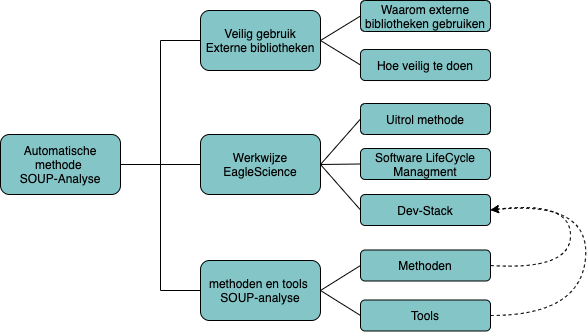
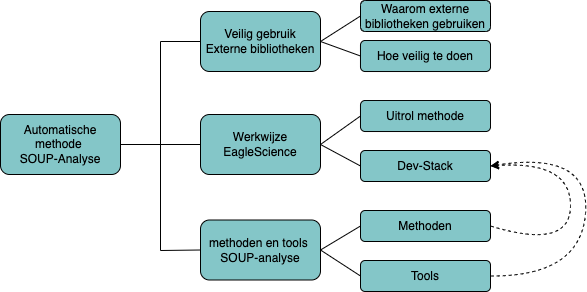
Onderzoeksplan ook spel checked, Conceptueel model figuur aangepast,

diff --git a/Chapters/0201-OnderzoeksPlan.tex b/Chapters/0201-OnderzoeksPlan.tex
@@ -16,29 +16,29 @@ Door de analyses te automatiseren wordt beoogd dat er minder tijd zal hoeven te 
 
 
 \section{Probleem stelling, onderzoeksvraag en doelstellingen}\label{sec:probleem-stelling-onderzoeksvraag-en-doelstellingen}
-Samengevat luidt het probleem: Het handmatig uitvoeren van SOUP-analyses kost manuren die niet declarabel zijn. Om deze reden is de wens dat er een geautomatiseerde oplossing komt die periodiek de projecten, die in ontwikkeling zijn en/of door Eaglescience gehost worden, analyseerd op kwetsbaarheden in gebruikte externe bibliotheken. Door deze automatische oplossing te gebruiken wordt beoogd dat de (niet declarabele) uren die normaal gebruikt worden voor het analyseren van projecten in plaats daarvan gebruikt kunnen worden voor andere wel declarabele uren. Hierdoor zou de efficientie binnen Eaglescience kunnen worden verhoogd.
+Samengevat luidt het probleem: Het handmatig uitvoeren van SOUP-analyses kost manuren die niet declarabel zijn. Om deze reden is de wens dat er een geautomatiseerde oplossing komt die periodiek de projecten, die in ontwikkeling zijn en/of door Eaglescience gehost worden, analyseert op kwetsbaarheden in gebruikte externe bibliotheken. Door deze automatische oplossing te gebruiken wordt beoogd dat de (niet declarabele) uren die normaal gebruikt worden voor het analyseren van projecten in plaats daarvan gebruikt kunnen worden voor andere wel declarabele uren. Hierdoor zou de efficiëntie binnen Eaglescience kunnen worden verhoogd.
 
 Voor het onderzoek naar het hierboven genoemde probleem is de volgende centrale onderzoeksvraag opgesteld: "Hoe kan Eaglescience middels een geautomatiseerde methode inzicht krijgen in potentiële kwetsbaarheden van gebruikte bibliotheken binnen projecten, waarbij rekening gehouden wordt met de huidige manier van werken?"
 
 De opdracht heeft de volgende doelstelling:
-Het doel van dit onderzoek is het ontwikkelen van een methode om SOUP-analyses uit te voeren binnen de dev-stack van Eaglescience. Hierbij moet rekening gehouden worden met de in de opdracht gegeven criteria. Aan het einde van het onderzoek moet een methode worden gepresenteerd die vervolgens bewezen kan worden middels een implementantie van een analyse op de twee meest gebruikte technologiën binnen Eaglescience, Scala en TypeScript.
+Het doel van dit onderzoek is het ontwikkelen van een methode om SOUP-analyses uit te voeren binnen de dev-stack van Eaglescience. Hierbij moet rekening gehouden worden met de in de opdracht gegeven criteria. Aan het einde van het onderzoek moet een methode worden gepresenteerd die vervolgens bewezen kan worden middels een implementatie van een analyse op de twee meest gebruikte technologieën binnen Eaglescience, Scala en TypeScript.
 
 
-\section{Stakeholdersanalyse}\label{sec:stakeholdersanalyse}
+\section{Stakeholderanalyse}\label{sec:stakeholdersanalyse}
 Om inzicht te verkrijgen in het draagvlak voor dit onderzoek dient er een stakeholders analyse gedaan te worden. Op deze manier moet het duidelijk worden wie de stakeholders zijn en welke belangen zij hebben bij het doen van een onderzoek naar een geautomatiseerde SOUP-analyse en de resultaten hiervan.
 
 \subsection{Dagelijks bestuur (intern)}\label{subsec:dagelijks-bestuur-(intern)1}
-Het dagelijks bestuur ziet vooral voordelen in het op een overzichtelijke manier verkrijgen van inzichten in kwetsbaarheden. Zij beogen dat ze hierdoor beter kunnen aansturen in het gebruik van bibliotheken en/of andere technologiëen. Ondanks dat de ontwikkeling van de beoogde nieuwe module vooral geld zal kosten, is de huidige manier van werken ook niet kosten-effectief. Daarnaast voorziet de CTO dat de nieuwe module tijdswinst zal opleveren waardoor de time-to-market voor andere projecten hoger kan komen te liggen en er dus op langere termijn meer omzet gegenereerd kan worden.
+Het dagelijks bestuur ziet vooral voordelen in het op een overzichtelijke manier verkrijgen van inzichten in kwetsbaarheden. Zij beogen dat ze hierdoor beter kunnen aansturen in het gebruik van bibliotheken en/of andere technologieën. Ondanks dat de ontwikkeling van de beoogde nieuwe module vooral geld zal kosten, is de huidige manier van werken ook niet kosten-effectief. Daarnaast voorziet de CTO dat de nieuwe module tijdswinst zal opleveren waardoor de time-to-market voor andere projecten hoger kan komen te liggen en er dus op langere termijn meer omzet gegenereerd kan worden.
 
 \subsection{Projectmanagers (intern)}\label{subsec:projectmanagers-(intern)1}
-Projectmanagers krijgen op dit moment een update over de staat van kwetsbaarheden na afronding van een analyse, welke veelal na een deploy plaatsvindt of op verzoek. De nieuwe module zal echter de mogelijkheid bieden om up-to-date informatie on-demand te verkrijgen.
+Projectmanagers krijgen op dit moment een update over de staat van kwetsbaarheden na afronding van een analyse, welke vaak na een deploy plaatsvindt of op verzoek. De nieuwe module zal echter de mogelijkheid bieden om up-to-date informatie on-demand te verkrijgen.
 De tijdsinvestering die nodig is van ontwikkelaars voor de ontwikkeling van de module weegt volgens hen op tegen de voordelen die de module in de toekomst kan brengen.
 
 \subsection{Ontwikkelteam (intern)}\label{subsec:ontwikkelteam-(intern)1}
-Het handmatig testen van kwetsbaarheden werd tot op heden gedaan door het ontwikkelteam. Dit is een tijdrovende taak, welke ten koste gaat van de ontwikkeling van software voor klanten. Het ontwikkelteam heeft daarom direct baat bij de ontwikkeling van de beoogte module en wil daarom graag hieraan meedenken en meewerken.
+Het handmatig testen van kwetsbaarheden werd tot op vandaag gedaan door het ontwikkelteam. Dit is een tijdrovende taak, welke ten koste gaat van de ontwikkeling van software voor klanten. Het ontwikkelteam heeft daarom direct baat bij de ontwikkeling van de beoogde module en wil daarom graag hieraan meedenken en meewerken.
 
 \subsection{Klant (extern)}\label{subsec:klant-(extern)1}
-De enige externe stakeholder is de klant. Dit is tevens een passieve stakeholder gezien zij niet direct betrokken zijn bij de ontwikkeling van de module, maar wel baat hebben bij de uitkomst hiervan, namelijk in de vorm van veiligere en betrouwbaardere software tegen potentieel lagere kosten.
+De enige externe stakeholder is de klant, welke ook een passieve stakeholder is, gezien zij niet direct betrokken zijn bij de ontwikkeling van de module, maar wel baat hebben bij de uitkomst hiervan, namelijk in de vorm van veiligere en betrouwbaardere software tegen potentieel lagere kosten.
 
 \begin{figure}
     \myfloatalign
@@ -46,21 +46,21 @@ De enige externe stakeholder is de klant. Dit is tevens een passieve stakeholder
     \caption{StakeHolders Analyse}
     \label{fig:StakeholderAnalyse1}
 \end{figure}
-Zoals te zien is in figuur~\ref{fig:StakeholderAnalyse1} is hebben alle stakeholders veel baat bij een nieuwe module voor de analyse van kwetsbaarheden. De invloed hierop is het hoogst bij het ontwikkelteam en de projectmangagers. De lage invloed van de klant zorgt ervoor dat voor het ontwerp alleen de requirements vanuit Eaglescience worden opgenomen.
+Zoals te zien is in figuur~\ref{fig:StakeholderAnalyse1} is hebben alle stakeholders veel baat bij een nieuwe module voor de analyse van kwetsbaarheden. De invloed hierop is het hoogst bij het ontwikkelteam en de projectmanagers. De lage invloed van de klant zorgt ervoor dat voor het ontwerp alleen de requirements vanuit Eaglescience worden opgenomen.
 
 \section{Theoretisch kader}\label{sec:theoretisch-kader}
 Het theoretisch kader waarmee wordt gewerkt bestaat uit twee delen. Het eerste deel omvat theorie over externe bibliotheken. Het richt zich op het gebruik hiervan en de potentiële gevaren en methoden om deze bibliotheken te analyseren. De geselecteerde bronnen zijn:
 \begin{itemize}
     \item \textbf{OWASP top 10}
-    De OWASP Top-10 is als uitgangspunt gekozen omdat de inhoud van dit document binnen Eaglescience geldt als aandachtspunt voor het ontwikkelen van veilige software. De basis voor dit onderzoek wordt beschreven in punt "A06:2021-Vulnerable and Outdated Components". Hier wordt beschreven welke gevaren er potentieel dreigen als op dit punt niets gedaan wordt \citep{OWASP:2021}.
-    \item \textbf{OWASP dependency-check} Pagina over het project binnen de OWASP voor het analyseren van componenten in applicaties \citep{OWASP:2017}.
-    \item \textbf{Justifying the use of software of uncertain pedigree (SOUP) in safety-related applications} Hoewel dit document verouderd lijkt staat er wel degelijk interessante informatie over waarom je SOUP zou gebruiken en hoe je de risico's kan verminderen \citep{Bischop:2001} .
-    \item \textbf{Backstabber’s Knife Collection: A Review of Open Source Software Supply Chain Attacks}Dit artikel bevat informatie over een mogelijke vorm van aanvallen die middels SOUP uitgevoerd zouden kunnen worden. Daarnaast geeft het artikel inzicht in hoe de onderzoekers packages voor NPM, Python, en Ruby hebben onderzocht op kwetsbaarheden \citep{Ohm:2020}.
+    De OWASP Top-10 is als uitgangspunt gekozen omdat de inhoud van dit document binnen Eaglescience geldt als aandachtspunt voor het ontwikkelen van veilige software. De basis voor dit onderzoek wordt beschreven in punt "A06:2021-Vulnerable and Outdated Components". Hier wordt beschreven welke gevaren er potentieel dreigen als op dit punt niets gedaan wordt~\citep{OWASP:2021}.
+    \item \textbf{OWASP dependency-check} Pagina over het project binnen de OWASP voor het analyseren van componenten in applicaties~\citep{OWASP:2017}.
+    \item \textbf{Justifying the use of software of uncertain pedigree (SOUP) in safety-related applications} Hoewel dit document verouderd lijkt staat er wel degelijk interessante informatie over waarom je SOUP zou gebruiken en hoe je de risico's kan verminderen~\citep{Bischop:2001} .
+    \item \textbf{Backstabber’s Knife Collection: A Review of Open Source Software Supply Chain Attacks}Dit artikel bevat informatie over een mogelijke vorm van aanvallen die middels SOUP uitgevoerd zouden kunnen worden. Daarnaast geeft het artikel inzicht in hoe de onderzoekers packages voor NPM, Python, en Ruby hebben onderzocht op kwetsbaarheden~\citep{Ohm:2020}.
 \end{itemize}
-Het tweede deel omvat de werkwijze van Eaglescience en de door hun gebruikte technologiëen. De geselecteerde documenten vormen de basis informatie over de werkwijze van Eaglescience en zal als input worden gebruikt bij het ontwerp van de analyse welke aansluitend aan het onderzoek zal plaatsvinden. De volgende bronnen zullen bij het onderzoek worden gebruikt:
+Het tweede deel omvat de werkwijze van Eaglescience en de door hun gebruikte technologieën. De geselecteerde documenten vormen de basis informatie over de werkwijze van Eaglescience en zal als input worden gebruikt bij het ontwerp van de analyse die aansluitend aan het onderzoek zal plaatsvinden. De volgende bronnen zullen bij het onderzoek worden gebruikt:
 \begin{itemize}
-    \item \textbf{151030 F04B Proces Flow Chart ES\_V1.0\_TN.pdf} Een document dat de workflow beschrijft die binnen Eaglescience gehanteerd wordt \citep{Eaglescience:2015}.
-    \item \textbf{200121\_Policy Manual\_ES\_V6 signed.pdf} ISO handboek waarin de bedrijfsvoering binnen Eaglescience wordt beschreven \citep{Eaglescience:2020}.
+    \item \textbf{151030 F04B Proces Flow Chart ES\_V1.0\_TN.pdf} Een document dat de workflow beschrijft die binnen Eaglescience gehanteerd wordt~\citep{Eaglescience:2015}.
+    \item \textbf{200121\_Policy Manual\_ES\_V6 signed.pdf} ISO-handboek waarin de bedrijfsvoering binnen Eaglescience wordt beschreven~\citep{Eaglescience:2020}.
 \end{itemize}
 
 \section{Conceptueel model}\label{sec:conceptueel-model}
@@ -71,13 +71,13 @@ Om de relevantie en relatie van de verschillende onderzoeken te waarborgen is ee
     \caption{Conceptueel Model}
     \label{fig:ConceptueelModel}
 \end{figure}
-Dit model maakt de samenhang van de verschillende begrippen inzichtelijk. Het kernbegrip is "Automatische methode SOUP-analyse" welke dit onderzoek uiteindelijk moet opleveren. Om hiertoe te komen zijn er drie begrippen die ieders een eigen domein binnen de probleemstelling belichten. In het theoretisch deel "Veilig gebruik externe bibliotheken"  wordt onderzocht waarom er bibliotheken van buitenaf worden gebruikt en wat de potentiële gevaren zijn die dit met zich meebrengt, en eventuele remedies hiervoor. Daarna zal "Werkwijze Eaglescience"  de manier van werken binnen Eaglescience belichten als ook de manier van uitrollen en de algehele dev-stack die Eaglescience gebruikt. Het begrip "Methoden en tools SOUP-analyse" zal ingaan op de beschikbare tools die gebruikt kunnen worden om een analyse te doen. Met deze tools wordt een methode onderzocht die SOUP-analyses mogelijk maakt binnen de dev-stack van Eaglescience. Tesamen zal dit onderzoek resulteren in een theoretische methode die als input kan gelden voor het ontwerp voor de nieuwe module die in de opdracht staat beschreven.
+Dit model maakt de samenhang van de verschillende begrippen inzichtelijk. Het kernbegrip is "Automatische methode SOUP-analyse" welke dit onderzoek uiteindelijk moet opleveren. Om hiertoe te komen zijn er drie begrippen die ieders een eigen domein binnen de probleemstelling belichten. In het theoretisch deel "Veilig gebruik externe bibliotheken"  wordt onderzocht waarom er bibliotheken van buitenaf worden gebruikt en wat de potentiële gevaren zijn die dit met zich meebrengt, en eventuele remedies hiervoor. Daarna zal "Werkwijze Eaglescience"  de manier van werken binnen Eaglescience belichten als ook de manier van uitrollen en de algehele dev-stack die Eaglescience gebruikt. Het begrip "Methoden en tools SOUP-analyse" zal ingaan op de beschikbare tools die gebruikt kunnen worden om een analyse te doen. Met deze tools wordt een methode onderzocht die SOUP-analyses mogelijk maakt binnen de dev-stack van Eaglescience. Samen zal dit onderzoek leiden tot een theoretische methode die als input kan gelden voor het ontwerp voor de nieuwe module die in de opdracht staat beschreven.
 
 \section{Onderzoeksontwerp}\label{sec:OP_onderzoeksontwerp}
 Aan de hand van de hierboven beschreven doelstellingen, theoretisch kader en conceptueel model is het volgende onderzoeksontwerp opgesteld.
 
 \subsection{Onderzoeksvraag}\label{subsec:onderzoeksvraag-en-deelvragen}
-Op basis van de probeemanalyse luidt de onderzoeksvraag als volgt: "Hoe kan Eaglescience middels een geautomatiseerde methode inzicht krijgen in potentiële kwetsbaarheden van gebruikte bibliotheken binnen projecten waarbij rekening gehouden wordt met de huidige manier van werken?". Door het ontleden van deze onderzoeksvraag onstaan er twee delen waarnaar onderzoek gedaan moet worden. Het eerste deel is het gebruik en gevaar van externe bibliotheken, welke leidt tot de volgende onderzoeksvraag: "Wat is het effect van het gebruik van externe bibliotheken bij het ontwikkelen van software, welke gevaren brengt dit met zich mee en wat kan er gedaan worden om deze gevaren te minimaliseren?". Vervolgens kan deze kennis worden benut in het tweede deel, wat de praktische kant belicht, gericht op de methode en tooling voor SOUP-analyses. Dit tweede deel omvat methodes om geautomatiseerd SOUP-analyses te doen op projecten binnen Eaglescience. De onderzoeksvraag luidt als volgt: "Welke SCA tooling is compatibel met de omgeving van Eaglescience en welke methode kan worden toegepast om deze tooling te gebruiken voor het automatisch analyseren van externe dependencies?"
+Op basis van de probleemanalyse luidt de onderzoeksvraag als volgt: "Hoe kan Eaglescience middels een geautomatiseerde methode inzicht krijgen in potentiële kwetsbaarheden van gebruikte bibliotheken binnen projecten waarbij rekening gehouden wordt met de huidige manier van werken?". Door het ontleden van deze onderzoeksvraag ontstaan er twee delen waarnaar onderzoek gedaan moet worden. Het eerste deel is het gebruik en gevaar van externe bibliotheken, welke leidt tot de volgende onderzoeksvraag: "Wat is het effect van het gebruik van externe bibliotheken bij het ontwikkelen van software, welke gevaren brengt dit met zich mee en wat kan er gedaan worden om deze gevaren te minimaliseren?". Vervolgens kan deze kennis worden benut in het tweede deel, wat de praktische kant belicht, gericht op de methode en tooling voor SOUP-analyses. Dit tweede deel omvat methodes om geautomatiseerd SOUP-analyses te doen op projecten binnen Eaglescience. De onderzoeksvraag luidt als volgt: "Welke SCA tooling is compatibel met de omgeving van Eaglescience en welke methode kan worden toegepast om deze tooling te gebruiken voor het automatisch analyseren van externe dependencies?"
 
 Deze delen zullen ieders in een deelonderzoek worden behandeld, waarvan de uitkomsten elkaar zullen aanvullen en samen tot een eind eindresultaat leiden.
 \begin{figure}
@@ -92,14 +92,14 @@ In figuur\ref{fig:OnderzoeksModel} is te zien hoe de twee onderzoeken met elkaar
 \subsection{Scope}\label{subsec:scope}
 Het domein softwareveiligheid is op het moment van schrijven een 'hot-topic', en zeer breed. Om deze reden is er gekozen om dit onderzoek te beperken tot het veiliger maken van software middels het analyseren en beschikbaar stellen van informatie over externe bibliotheken. Daarnaast zullen alleen de technologieën die compatibel zijn met de werkwijze van Eaglescience mee worden genomen. Daarnaast is de opdracht zoals deze is gegeven door de CTO van Eaglescience de leidraad voor de scope van het onderzoek.
 
-\subsection{Onderzoek strategie}\label{subsec:onderzoeks-strategie}
+\subsection{Onderzoek strategie}\label{subsec:onderzoek-strategie}
 Zoals hierboven is aangegeven zullen er een tweetal onderzoeken worden uitgevoerd. De conclusie van het eerste onderzoek zal dienen als input voor het tweede onderzoek.
 
 %\newpage %TODO: quickfix om volgorde lijkheid te veranderen voor figuren...
 
 
 \subsubsection{Onderzoek 1: gebruik externe bibliotheken, het gevaar en hoe veiliger te maken}
-Het \textbf{doel} van dit onderzoek is om inzicht te krijgen in wat een SOUP-analyse is en hoe relevant het is om deze uit te voeren. Daarnaast wordt er gekeken wat de SOUP-analyse toevoegd aan de veiligheid van de software die Eaglescience levert en hoe Eaglescience mogelijk kan voorkomen dat er kwetsbaarheden in de uitgerolde software terecht komen.
+Het \textbf{doel} van dit onderzoek is om inzicht te krijgen in wat een SOUP-analyse is en hoe relevant het is om deze uit te voeren. Daarnaast wordt er gekeken wat de SOUP-analyse toevoegt aan de veiligheid van de software die Eaglescience levert en hoe Eaglescience mogelijk kan voorkomen dat er kwetsbaarheden in de uitgerolde software terecht komen.
 De \textbf{scope} van dit onderzoek is dat er gekeken wordt naar het gebruik van externe bibliotheken en de toegevoegde waarde hiervan. Daarnaast wordt er gekeken wat er gedaan kan worden om het gebruik van externe bibliotheken veiliger te maken.
 De \textbf{onderzoeksvraag} luid: "Wat is het effect van het gebruik van externe bibliotheken bij het ontwikkelen van software, welke gevaren brengt dit met zich mee en wat kan er gedaan worden om deze gevaren te minimaliseren?".
 De gebruikte \textbf{methodes} zullen deskresearch zijn aangevuld met conferenties, waarbij \textbf{bronnen} zoals artikelen en rapportages van instanties en bedrijven die zich bezighouden met de veiligheid van software zullen worden opgenomen met als focus het gebruik van externe bibliotheken. Software veiligheid is een 'hot-topic' en er worden jaarlijks veel conferenties gehouden over dit onderwerp. Door de huidige wereld situatie is het mogelijk om veel van deze conferenties  ''on-demand'' terug te kijken wat op zijn beurt ook weer tot andere inzichten kan leiden. In figuur~\ref{fig:OnderzoeksModelNoodZaakSOUP} is te zien hoe het onderzoek is opgebouwd.
@@ -148,10 +148,10 @@ Er is onderzoek nodig naar de volgende onderwerpen:
 \textbf{Resultaat:} Inzicht in het begrip SOUP en software veiligheid als ook een idee voor een mogelijke implementatie van de oplossing die voor Eaglescience de beste is zonder veel impact op de huidige manier van werken te hebben.
 
 \subsection{Initieel ontwerp \textbf{oktober 2021 - november 2021 }}\label{subsec:initieel-ontwerp}
-Er zal een ontwerp worden gemaakt waarin vast gelegd is welke requirements er beslist in de module moeten zitten en de uitwerking van deze. Evenals een ontwerp van de architectuur en het datamodel. Naast de module zal er ook een ontwerp gemaakt worden voor een ontwikkel/test omgeving om de module continue te kunnen testen zonder dat dit de huidige buildstraat beinvloed. Dit laatste is van belang om zo min mogelijk storingen te veroorzaken in de dagelijkse gang van zaken bij al lopende projecten. Het eerste ontwerp zal als leidraad dienen voor de implementatie waarin afgeweken kan worden als dit nodig blijkt tijdens de implementatie sprints.
+Er zal een ontwerp worden gemaakt waarin vast gelegd is welke requirements er beslist in de module moeten zitten en de uitwerking van deze. Evenals een ontwerp van de architectuur en het datamodel. Naast de module zal er ook een ontwerp gemaakt worden voor een ontwikkel/test omgeving om de module continue te kunnen testen zonder dat dit de huidige buildstraat beïnvloed. Dit laatste is van belang om zo min mogelijk storingen te veroorzaken in de dagelijkse gang van zaken bij al lopende projecten. Het eerste ontwerp zal als leidraad dienen voor de implementatie waarin afgeweken kan worden als dit nodig blijkt tijdens de implementatie sprints.
 
 \textbf{Methode:} Overleggen met ontwikkelaars, huidige omgeving onderzoeken op mogelijkheden en architectuur.
-\textbf{Resultaat:} Eerste ontwerp in de vorm van een datamodel, blokdiagram van architectuur voor de oplossing, als ook een sequence diagram om van analyse tot rapportage te komen.
+\textbf{Resultaat:} Eerste ontwerp in de vorm van een datamodel, blokdiagram van architectuur voor de oplossing, als ook een sequentiediagram om van analyse tot rapportage te komen.
 
 \subsection{Implementatie en Testen \textbf{november 2021 - januari 2022 }}\label{subsec:implementatie-en-testen}
 Om te kunnen beginnen aan de implementatie is er een ontwikkel/ test omgeving nodig die het mogelijk maakt om zonder invloed op de dagelijkse werkzaamheden van Eaglescience een module te kunnen ontwikkelen. Deze zal eerst worden opgezet. Als test projecten zullen snapshots worden gebruikt van de daadwerkelijke projecten dit om een zo accuraat mogelijke test omgeving te hebben. Zoals in de opdracht beschreven dient de nieuwe module een onderdeel te zijn van de bestaande portal. Er zal dan ook direct samen worden gewerkt met het team die daar op het moment mee aan het ontwikkelen is. Tijdens de implementatie zal er ook worden gedocumenteerd wordt hoe de module werkt en welke procedures hier in worden gevolgd. Dit document biedt ontwikkelaars de mogelijkheid om dit door te nemen als on-boarding en referentie.
@@ -160,7 +160,7 @@ Om te kunnen beginnen aan de implementatie is er een ontwikkel/ test omgeving no
 \textbf{Resultaat:} Werkende en geteste applicatie die klaar is om uitgerold te worden.
 
 \subsection{Uitrollen en documentatie \textbf{januari 2022 - februari 2022 }}\label{subsec:uitrollen-en-documentatie}
-Nadat de implementatie van de meest kritische requirements is afgerond zal er worden begonnen met het uitrollen van de module en het testen door een geselecteerde groep gebruikers. De feedback wordt bekeken en meegenomen in de evaluatie. Mocht het nodig zijn dan zal er accuut actie worden ondernomen om deze wijzigingen aan te passen. Mochten er wensen zijn die kunnen wachten dan zal er worden overwogen om deze mee te nemen in de volgende iteratie van het project. Daarnaast zal ook de documentatie verder worden afgerond.
+Nadat de implementatie van de meest kritische requirements is afgerond zal er worden begonnen met het uitrollen van de module en het testen door een geselecteerde groep gebruikers. De feedback wordt bekeken en meegenomen in de evaluatie. Mocht het nodig zijn dan zal er acuut actie worden ondernomen om deze wijzigingen aan te passen. Mochten er wensen zijn die kunnen wachten dan zal er worden overwogen om deze mee te nemen in de volgende iteratie van het project. Daarnaast zal ook de documentatie verder worden afgerond.
 \textbf{Methode:} Interviews met stakeholders met een analyse over de nieuwe requirements.
 
 \textbf{Resultaat:} Uitgerolde en gedocumenteerde applicatie.
